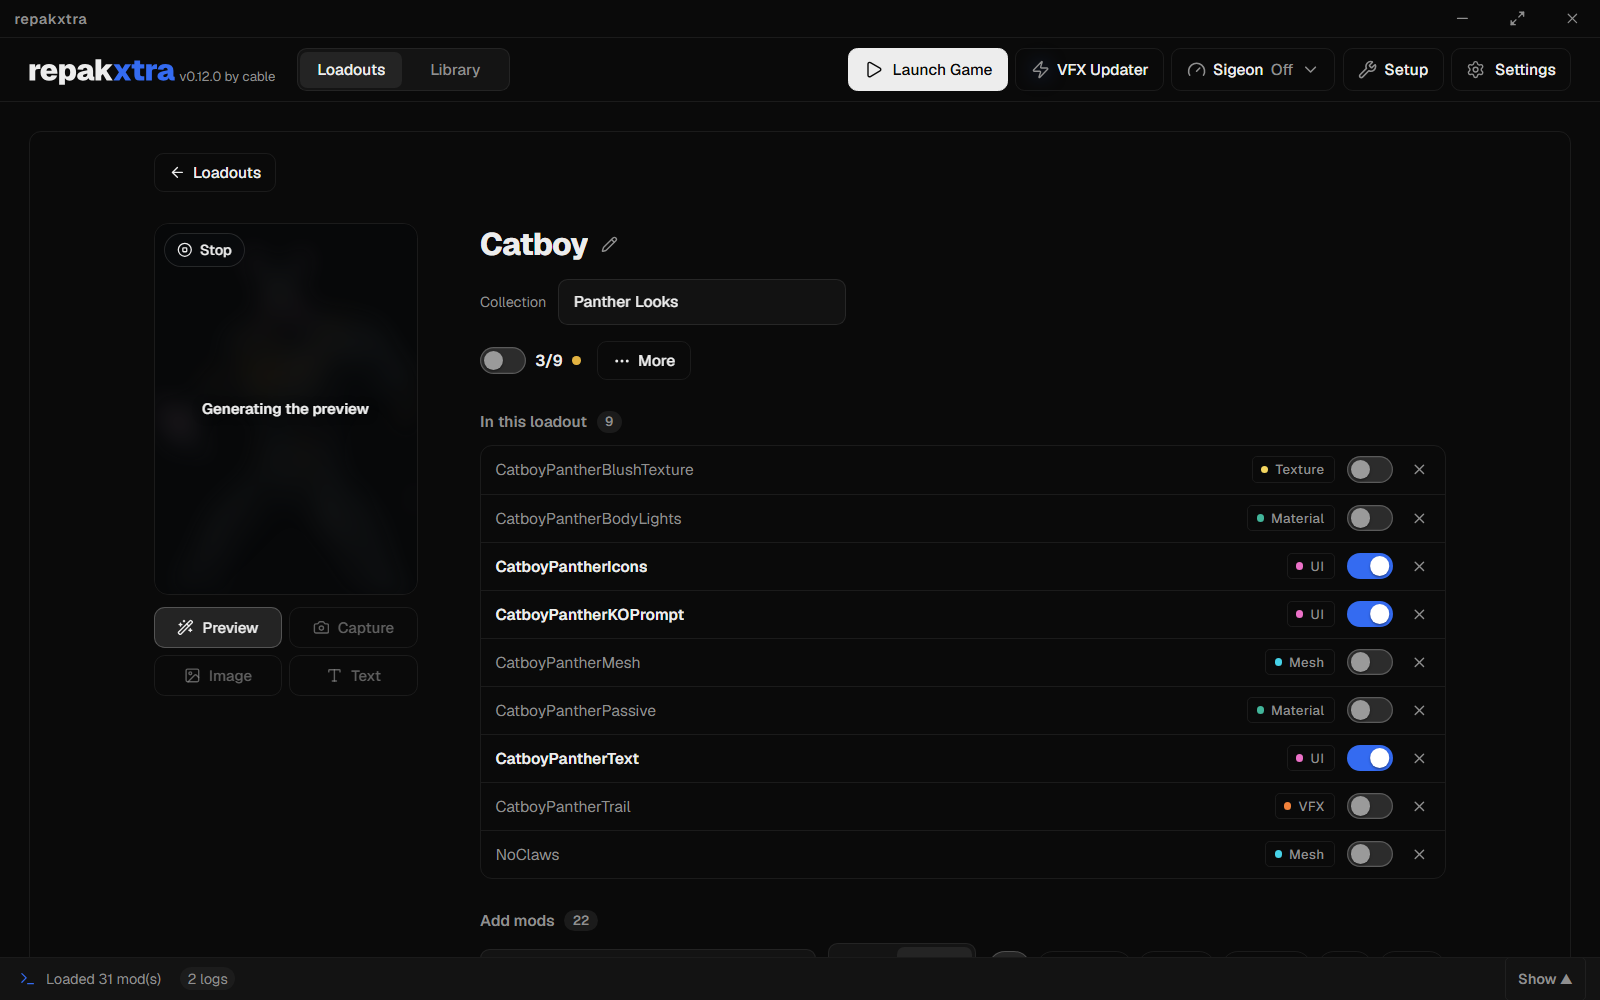
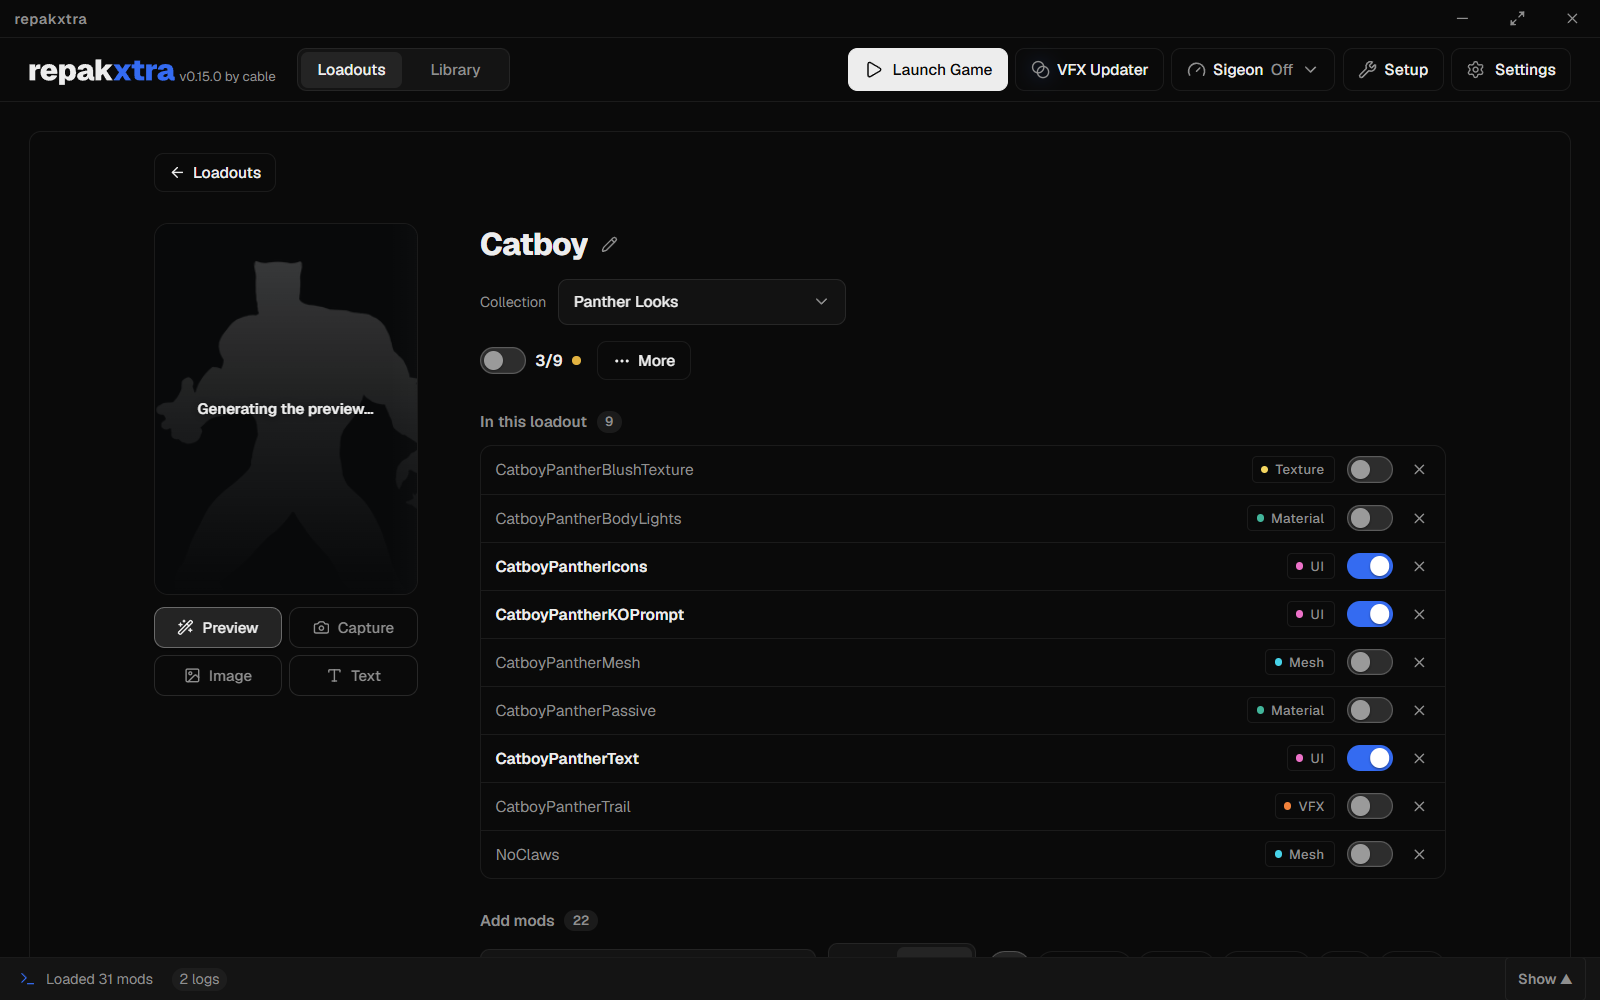
repakxtra 0.15.0, with README text, screenshots and GIFs re-recorded for it
- Version 0.15.0 and its release notes
- README: mod previews recommended in setup, Install in the Library, loadout search, deleted loadouts kept 7 days, conflicts across PAK and IoStore, installs that keep the old version, the keyboard Library and the new local checks
- Every README still and GIF re-recorded from the current app (the banner already matches the logo)

diff --git a/repak-x/src/custom/version.ts b/repak-x/src/custom/version.ts
@@ -1,6 +1,6 @@
 // repakxtra: repakxtra's own version, bumped for each repakxtra release. The Repak X version it is built on still comes
 // from Cargo (get_app_version).
-export const REPAKXTRA_VERSION = '0.14.0'
+export const REPAKXTRA_VERSION = '0.15.0'
 
 /** Which copy this is. "dev": the live dev copy (dev.ps1, or the browser preview), served by Vite. "test": made with
  *  `build.ps1 -Test`, which sets VITE_REPAKXTRA_TEST for the frontend build. Both mark themselves: the "xtra" in the app

diff --git a/README.md b/README.md
@@ -38,7 +38,10 @@ you do not need to unzip it.
    - **Find the game** usually has a blue check already. If not, click **Find it**.
    - **Install the signature bypass:** click **Install**. Without it, the game does not load mods.
    - **Install Project Galacta:** click **Install**. Most skin mods need it.
-   - **Mod previews** and **Desktop shortcut** are optional. You can skip them for now.
+   - **Mod previews** is recommended: click **Set up previews** and every mod and loadout gets a picture of how it
+     looks in the game. It downloads the free preview kit (about 110 MB) and installs Blender; if Windows asks whether
+     to allow changes, click **Yes**.
+   - **Desktop shortcut** is optional.
 6. **Add your mod.** Drag the mod file from your Downloads folder onto the repakxtra window and drop it on
    **Install Mods**. You can also click **Choose files...** under **Add your first mods** and pick it.
 7. **Click Install and save loadout.** It installs the mod and saves it as a loadout too (see below). Leave
@@ -59,11 +62,12 @@ in **Settings > Recently deleted** in case you want it back.
 A loadout is a group of mods with one switch, like one look for a hero. It gets a picture of what the mods look like
 in the game.
 
-1. **Set up previews (only once).** Click **Setup** at the top. Under **Mod previews**, click **Set up previews**. It
-   downloads the free preview kit (about 110 MB) and installs Blender, the free program that draws the pictures. If
-   Windows asks whether to allow changes, click **Yes**. When it says **Ready**, close Setup.
+1. **Set up previews (only once).** Skip this if you did it on the welcome screen. Otherwise click **Setup** at the
+   top and, under **Mod previews**, click **Set up previews**. It downloads the free preview kit (about 110 MB) and
+   installs Blender, the free program that draws the pictures. If Windows asks whether to allow changes, click **Yes**.
+   When it says **Ready**, close Setup.
 2. **Install a mod** as in the steps above: drag the file onto the window and drop it on **Install Mods** (or click
-   **PAK** in the Library and pick it). To make the loadout yourself, click **Install without a loadout**.
+   **Install** in the Library and pick it). To make the loadout yourself, click **Install without a loadout**.
    (**Install and save loadout** does steps 3 to 6 for you.)
 3. **Make a loadout.** Click **Loadouts** at the top, then **New loadout**.
 4. **Name it.** Type a name, like `Ultimate`, and press **Enter**.
@@ -80,9 +84,13 @@ in the game.
 
 **Loadouts**
 - One click turns a set of mods on or off. Loadouts are independent, and you are warned when two that are on change the same hero.
-- Collections or a view by hero. Drag a card to reorder it, move it to another collection or start a new one with it; the
-  pencils rename loadouts and collections. **−** and **+** in the header (or `Ctrl` + scroll) change the card size.
-- Make one from the Library selection, the right-click menu or while installing. Undo for every removal.
+- Collections or a view by hero. Drag a card to reorder it or move it to another collection; the pencils rename
+  loadouts and collections. **−** and **+** in the header (or `Ctrl` + scroll) change the card size, and **Search
+  loadouts...** finds one by name or collection.
+- Make one from the Library selection, the right-click menu or while installing. Undo for every removal, and a deleted
+  loadout waits 7 days in **Settings > Recently deleted** with its cover.
+- A loadout remembers each mod by its folder and name, so changing a mod's priority keeps it in the loadout, and two
+  mods with the same name in different folders stay apart.
 - On a loadout's page: add and remove mods, rename a mod, turn single mods on or off, and **More > Export as zip** (every
   mod's files in one zip, named after the loadout). Mods installed from the page join the loadout, and mods deleted
   from the Library show a red **Deleted** tag. Changes save as you make them.
@@ -105,9 +113,11 @@ in the game.
 > [!NOTE]
 > Rendered previews need the preview kit and [Blender](https://www.blender.org/download/) (free). **Setup > Mod previews** installs both.
 
-**Library:** hero and type filters (Nexus and Project Galacta mods too), double-click to rename. Deleted mods (and a mod's old version when it is updated, or a folder's mods when the folder is deleted) wait 7 days in **Settings > Recently deleted**
-(Undo right after a delete, Restore any time before). Mods that are on and clash with another mod that is on get a red
-**Conflict** badge, and **Check Conflicts** shows a red dot while any do; it groups the clashing mods and says what they
+**Library:** hero and type filters (Nexus and Project Galacta mods too), double-click to rename, and the arrow keys
+move through the list. Switching to Loadouts and back keeps your search, filters and checked mods; **Show all** clears
+the filters. Libraries of thousands of mods stay quick. Deleted mods (and a mod's old version when it is updated, or a folder's mods when the folder is deleted) wait 7 days in **Settings > Recently deleted**
+(Undo right after a delete, Restore any time before). Mods that are on and clash with another mod that is on (a PAK and an IoStore mod
+that replace the same asset count too) get a red **Conflict** badge, and **Check Conflicts** shows a red dot while any do; it groups the clashing mods and says what they
 replace ("These 3 mods replace Black Panther's materials"); **Keep this one** on a mod turns the others in its group off,
 with Undo. Mods installed from a Nexus Mods download get an orange **Nexus** tag that opens their page, and their source
 in mod details ("Nexus 12890, uploaded Sep 13, 2026" with **Open page**), read from the download's file name. On its
@@ -115,7 +125,8 @@ first launch repakxtra finds the source of mods you installed earlier from the N
 folder. Project Galacta mods get a magenta tag. File sizes are a setting (**Settings > Interface > On each mod**), and
 **Settings > Interface > On each mod** hides the Nexus tag and the Broken and Conflict warnings, and **Header buttons** hides Sigeon.
 
-**Installing:** drop zips, rars and 7zs as they are, no need to extract. `.pak.off`, `.utoc.off` and `.ucas.off` files
+**Installing:** drop zips, rars and 7zs as they are, no need to extract. Reinstalling or updating a mod builds the
+new version first and keeps the old one in **Recently deleted**, so a failed install leaves your mod as it was. `.pak.off`, `.utoc.off` and `.ucas.off` files
 (how RivalsFPS turns mods off, and how they often get shared) install like any other mod, each set as one mod, on.
 
 **When something breaks:** a crash alert's **See suspects** lists the mods that were on and hold the asset that crashed
@@ -368,10 +379,12 @@ Pull requests into `main` must pass **Typecheck, build and test** (`.github/work
 cd repak-x
 npm ci
 npx tsc --noEmit -p .
+npm run test:unit   # the interface's self-checks
 npm run build
 cd ..
 $env:SKIP_UASSET_TOOL_BUILD = '1'
-cargo test -p repak-x --bin REPAK-X
+cargo test --locked -p repak-x --bin REPAK-X
+cargo test --locked -p uasset_app --lib
 ```
 
 ### Browser preview

diff --git a/release-notes/v0.15.0.md b/release-notes/v0.15.0.md
@@ -1,0 +1,26 @@
+- Keep the installed mod working when a reinstall or update fails, with the replaced version in Recently deleted
+- Refuse shared packs and mod archives whose files would land outside their folder
+- Leave an installed mod untouched when a receive is interrupted, and stop a stalled receive within a second of Cancel
+- Rename a mod's pak, utoc and ucas together when its priority changes, or none of them
+- Keep the utoc and ucas of mods with dots in their names
+- Report an extraction with failed files as partial or failed instead of complete
+- Apply updates under any Windows user or folder name, and keep the old version if copying fails
+- Catch conflicts between PAK and IoStore mods that replace the same asset, and check big libraries much faster
+- Remember loadout mods by folder and name, so a priority change keeps them and same-named mods stay apart
+- Keep deleted loadouts for 7 days in Settings > Recently deleted, with their covers
+- Search saved loadouts by name or collection on Home
+- Put Add mods first on a new empty loadout
+- Keep the Library's search, filters, checked mods and scroll when switching to Loadouts and back, with Show all to clear them
+- Move keyboard focus with the arrow keys in the Library, and keep big libraries quick
+- Use the Asset Explorer from the keyboard, with Shift+F10 for its copy and reveal actions
+- Follow the Windows animation setting by default, with System, On and Off in Settings
+- Show tooltips on keyboard focus
+- Keep keyboard focus inside dialogs and block Library shortcuts behind them
+- Ask before Escape discards Sigeon editor changes
+- Commit an install name with Enter instead of installing
+- Pause toasts while they are focused, and announce their results to screen readers
+- Recommend mod previews in guided setup
+- Size the Sharing preview from file sizes instead of reading every file
+- Install the preview kit without holding it in memory
+- Keep a picked-up loadout card's text at any card size
+- Stop a card dropped on New collection from starting a collection
